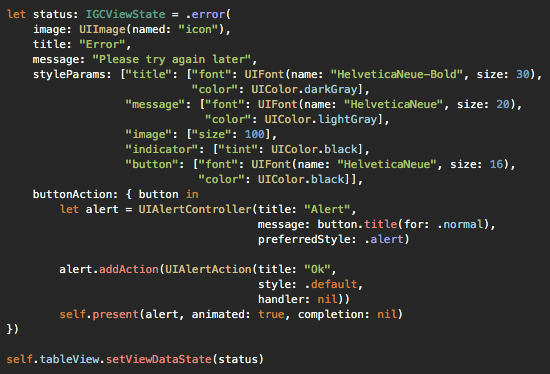
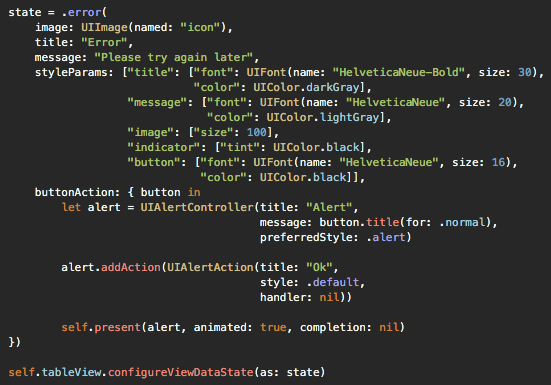
Updated method names

diff --git a/IGCStatefulView/Classes/IGCStateView.swift b/IGCStatefulView/Classes/IGCStateView.swift
@@ -70,11 +70,11 @@ final class IGCStateView: UIView {
     ///   - forLoadingState: Determines if view is for loading state.
     ///   - buttonAction: Closure to be executed when button is pressed.
     ///                   Not supplying this parameter will not display the button.
-    func setupInfo(with params: [String: String?],
-                   image: UIImage?,
-                   styleParams: [String: Any]?,
-                   forLoadingState: Bool = true,
-                   buttonAction: ((UIButton) -> Void)?) {
+    func setupStateView(with params: [String: String?],
+                        image: UIImage?,
+                        styleParams: [String: Any]?,
+                        forLoadingState: Bool = true,
+                        buttonAction: ((UIButton) -> Void)?) {
         // Content
         self.imageView.isHidden = forLoadingState
         self.centerConstraint.constant = 30
@@ -95,14 +95,6 @@ final class IGCStateView: UIView {
             }
         }
         
-        if let title = params["title"] as? String {
-            self.titleLabel.text = title
-        }
-        
-        if let message = params["message"] as? String {
-            self.messageLabel.text = message
-        }
-        
         if let action = buttonAction {
             self.action = action
             self.button.isHidden = false
@@ -110,11 +102,33 @@ final class IGCStateView: UIView {
             self.button.addTarget(self, action: #selector(self.onButtonTap), for: .touchUpInside)
         }
         
+        self.setupInfo(params)
+        
         // Style
         guard let styleParams = styleParams else {
             return
         }
         
+        self.setupStyle(styleParams)
+    }
+    
+    /// Set various info messages to this instance.
+    ///
+    /// - Parameter infoParams: UIDictionary instance containing necessary strings to pre-defined properties.
+    private func setupInfo(_ infoParams: [String: String?]) {
+        if let title = infoParams["title"] as? String {
+            self.titleLabel.text = title
+        }
+        
+        if let message = infoParams["message"] as? String {
+            self.messageLabel.text = message
+        }
+    }
+    
+    /// Applies styling to this instance based on provided dictionary.
+    ///
+    /// - Parameter styleParams: UIDictionary instance containing necessary stying to pre-defined properties.
+    private func setupStyle(_ styleParams: [String: Any]) {
         if let titleStyleParams = styleParams["title"] as? [String: Any] {
             if let font = titleStyleParams["font"] as? UIFont {
                 self.titleLabel.font = font
@@ -138,7 +152,6 @@ final class IGCStateView: UIView {
         if let imageStyleParams = styleParams["image"] as? [String: Any] {
             if let size = imageStyleParams["size"] {
                 self.heightConstraint.constant = CGFloat(size as! Int)
-                
                 
                 self.imageView.updateConstraints()
             }

diff --git a/IGCStatefulView/Classes/IGCStatefulView.swift b/IGCStatefulView/Classes/IGCStatefulView.swift
@@ -35,7 +35,12 @@ public enum IGCViewState {
     ///                For `indicator`, `tint` option is available.
     /// - buttonAction: Closure to be executed when button is pressed.
     ///                 Not supplying this parameter will not display the button.
-    case error(image: UIImage?, title: String?, message: String, styleParams: [String: Any]?, buttonAction: ((UIButton) -> Void)?)
+    case error(
+        image: UIImage?,
+        title: String?,
+        message: String,
+        styleParams: [String: Any]?,
+        buttonAction: ((UIButton) -> Void)?)
     /// Same behavior as `success`. May be used as default.
     case none
 }
@@ -45,7 +50,7 @@ public extension UIView {
     /// Sets a corresponding `IGCStateView` to a `UIView` instance based on provided `IGCViewState`.
     ///
     /// - Parameter state: `IGCViewState` with its corresponding parameters.
-    public func setViewDataState(_ state: IGCViewState) {
+    public func configureViewDataState(as state: IGCViewState) {
         switch state {
         case .loading(message: let message, styleParams: let styleParams):
             self.removeDataStateView()
@@ -86,11 +91,11 @@ public extension UIView {
                            buttonAction: ((UIButton) -> Void)?) -> IGCStateView {
         let view = IGCStateView(frame: self.bounds)
         
-        view.setupInfo(with: ["message": message, "title": title],
-                       image: image,
-                       styleParams: styleParams,
-                       forLoadingState: false,
-                       buttonAction: buttonAction)
+        view.setupStateView(with: ["message": message, "title": title],
+                            image: image,
+                            styleParams: styleParams,
+                            forLoadingState: false,
+                            buttonAction: buttonAction)
         
         return view
     }
@@ -107,10 +112,10 @@ public extension UIView {
     private func loadingView(with message: String? = nil, styleParams: [String: Any]?) -> IGCStateView {
         let view = IGCStateView(frame: self.bounds)
         
-        view.setupInfo(with: ["message": message],
-                       image: nil,
-                       styleParams: styleParams,
-                       buttonAction: nil)
+        view.setupStateView(with: ["message": message],
+                            image: nil,
+                            styleParams: styleParams,
+                            buttonAction: nil)
         
         return view
     }

diff --git a/Example/IGCStatefulView/SampleTableViewController.swift b/Example/IGCStatefulView/SampleTableViewController.swift
@@ -47,12 +47,14 @@ class SampleTableViewController: UIViewController {
     }
     
     override func viewWillAppear(_ animated: Bool) {
+        var state: IGCViewState = .loading(message: "Loading...", styleParams: nil)
+        
         super.viewWillAppear(animated)
         
-        self.tableView.setViewDataState(.loading(message: "Loading...", styleParams: nil))
+        self.tableView.configureViewDataState(as: state)
         
         DispatchQueue.main.asyncAfter(deadline: .now() + 2) {
-            let status: IGCViewState = .error(
+            state = .error(
                 image: UIImage(named: "icon"),
                 title: "Error",
                 message: "Please try again later",
@@ -72,10 +74,11 @@ class SampleTableViewController: UIViewController {
                     alert.addAction(UIAlertAction(title: "Ok",
                                                   style: .default,
                                                   handler: nil))
+                    
                     self.present(alert, animated: true, completion: nil)
             })
             
-            self.tableView.setViewDataState(status)
+            self.tableView.configureViewDataState(as: state)
         }
     }
 

diff --git a/Example/IGCStatefulView/SampleCollectionViewController.swift b/Example/IGCStatefulView/SampleCollectionViewController.swift
@@ -46,10 +46,10 @@ class SampleCollectionViewController: UIViewController {
     override func viewWillAppear(_ animated: Bool) {
         super.viewWillAppear(animated)
         
-        self.collectionView.setViewDataState(.loading(message: nil, styleParams: nil))
+        self.collectionView.configureViewDataState(as: .loading(message: nil, styleParams: nil))
         
         DispatchQueue.main.asyncAfter(deadline: .now() + 2) {
-            self.collectionView.setViewDataState(.success)
+            self.collectionView.configureViewDataState(as: .success)
         }
     }
     

diff --git a/Example/IGCStatefulView/SampleViewController.swift b/Example/IGCStatefulView/SampleViewController.swift
@@ -32,10 +32,10 @@ class SampleViewController: UIViewController {
     override func viewWillAppear(_ animated: Bool) {
         super.viewWillAppear(animated)
         
-        self.infoView.setViewDataState(.loading(message: nil, styleParams: nil))
+        self.infoView.configureViewDataState(as: .loading(message: nil, styleParams: nil))
         
         DispatchQueue.main.asyncAfter(deadline: .now() + 2) {
-            self.infoView.setViewDataState(.success)
+            self.infoView.configureViewDataState(as: .success)
         }
     }
 

diff --git a/README.md b/README.md
@@ -32,13 +32,13 @@ It serves as an extension to UIView instances wherein it adds a `setViewDataStat
 
 ```swift
 // UIView
-self.infoView.setViewDataState(.loading(message: nil, styleParams: nil))
+self.infoView.configureViewDataState(as: .loading(message: nil, styleParams: nil))
 
 // UITableView
-self.tableView.setViewDataState(.loading(message: "Loading...", styleParams: nil))
+self.tableView.configureViewDataState(as: .loading(message: "Loading...", styleParams: nil))
 
 // UICollectionView
-self.collectionView.setViewDataState(.success)
+self.collectionView.configureViewDataState(as: .success)
 ```
 
 Customizing is available but fairly limited to a few options for each of the state view's attributes, namely: `title`, `message`, `image`, `indicator`, and `button`. Here, a sample styling implementation of all available options is provided, along with its input.
